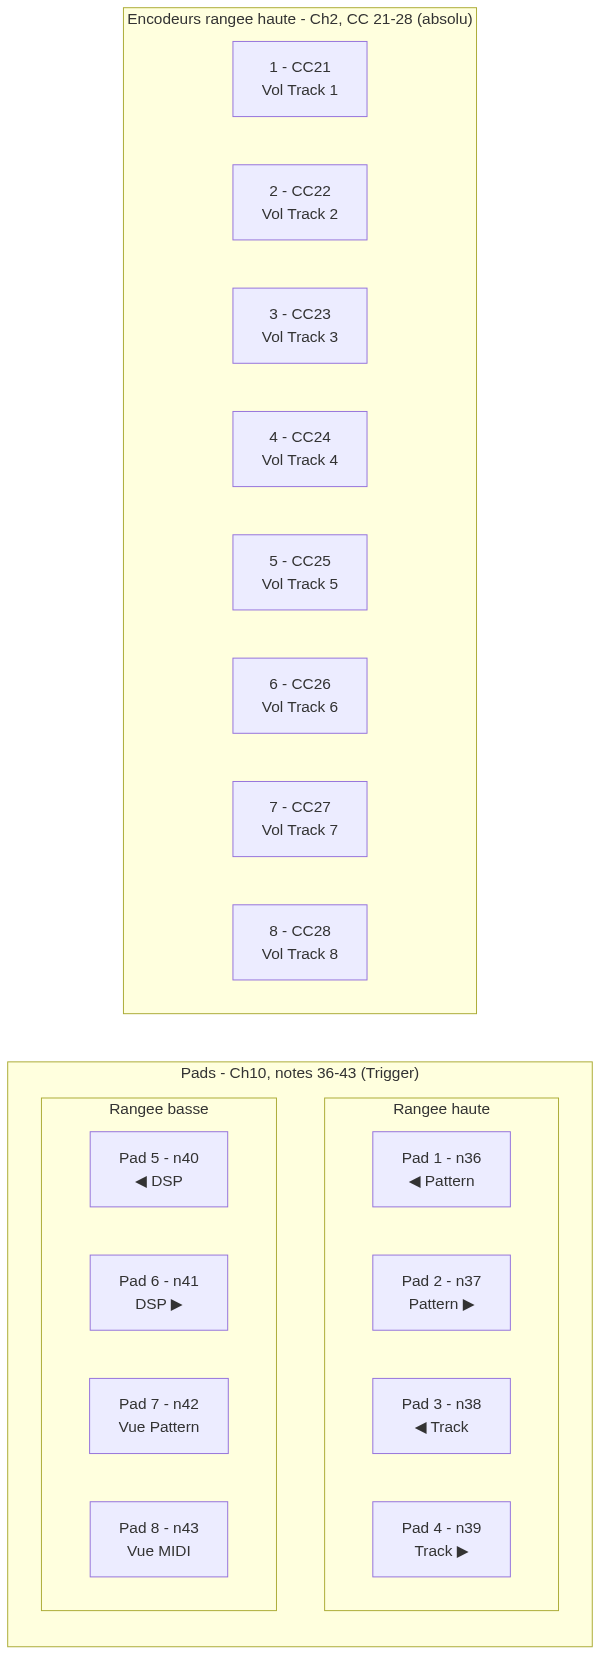
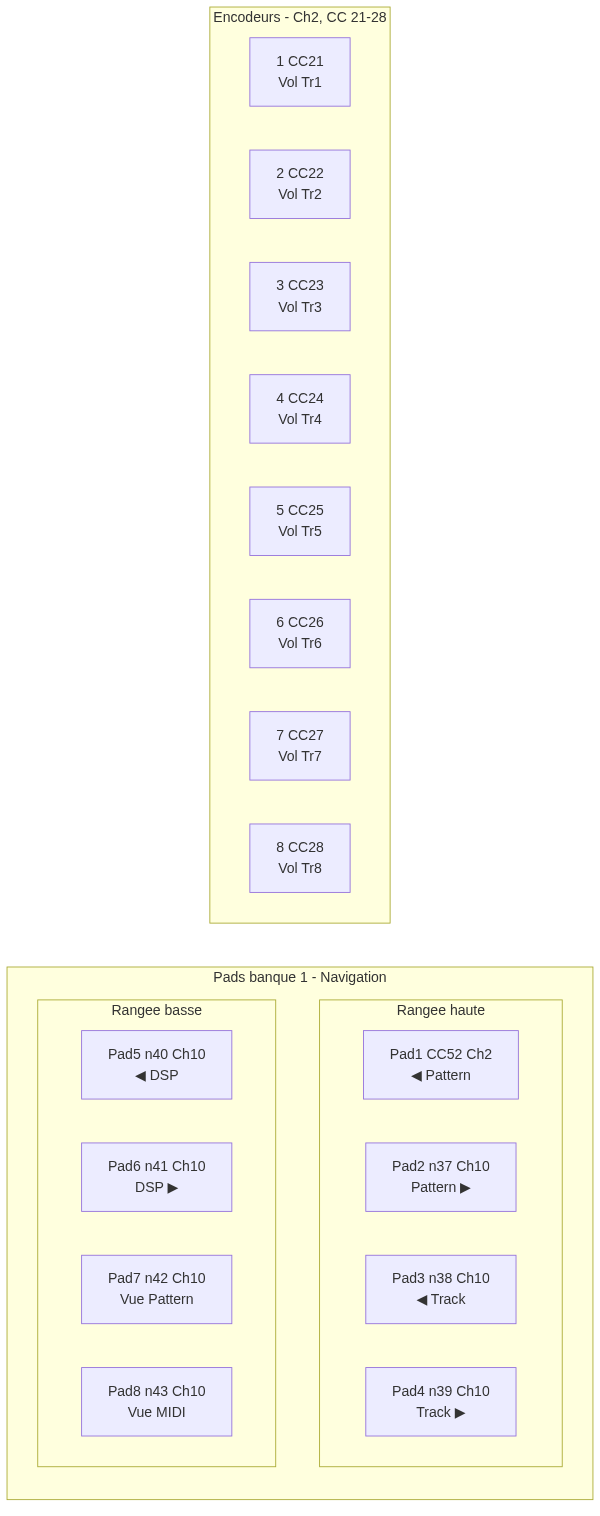
MiniLab: final collision-free mapping (nav + volume), drop bank-2 mutes
The user's MCC preset makes bank-2 pads emit the same CCs (23-28 ch2)
as the volume encoders — unresolvable in Renoise. Ship the validated
collision-free set: 8 volume encoders + 8 bank-1 navigation pads
(captured values, validator: 0 collisions). Bank-2 mutes documented as
excluded with the exact MCC reassignment to re-enable them. Layout PNG
and README updated to match.

https://claude.ai/code/session_01J2FWcPsegxi4dkYwYKcBVL

diff --git a/controllers/minilab-mkii/README.md b/controllers/minilab-mkii/README.md
@@ -73,21 +73,21 @@ flowchart TB
     E7["7 - CC27<br/>Vol Track 7"]
     E8["8 - CC28<br/>Vol Track 8"]
   end
-  subgraph PADS["Pads - Ch10, notes 36-43 (Trigger)"]
+  subgraph PADS["Pads banque 1 - Navigation"]
     direction TB
     subgraph PR1["Rangee haute"]
       direction LR
-      P1["Pad 1 - n36<br/>&#9664; Pattern"]
-      P2["Pad 2 - n37<br/>Pattern &#9654;"]
-      P3["Pad 3 - n38<br/>&#9664; Track"]
-      P4["Pad 4 - n39<br/>Track &#9654;"]
+      P1["Pad1 CC52 Ch2<br/>&#9664; Pattern"]
+      P2["Pad2 n37 Ch10<br/>Pattern &#9654;"]
+      P3["Pad3 n38 Ch10<br/>&#9664; Track"]
+      P4["Pad4 n39 Ch10<br/>Track &#9654;"]
     end
     subgraph PR2["Rangee basse"]
       direction LR
-      P5["Pad 5 - n40<br/>&#9664; DSP"]
-      P6["Pad 6 - n41<br/>DSP &#9654;"]
-      P7["Pad 7 - n42<br/>Vue Pattern"]
-      P8["Pad 8 - n43<br/>Vue MIDI"]
+      P5["Pad5 n40 Ch10<br/>&#9664; DSP"]
+      P6["Pad6 n41 Ch10<br/>DSP &#9654;"]
+      P7["Pad7 n42 Ch10<br/>Vue Pattern"]
+      P8["Pad8 n43 Ch10<br/>Vue MIDI"]
     end
   end
   ENC ~~~ PADS
@@ -108,18 +108,33 @@ flowchart TB
 | 7 | 27 | Volume Track 7 |
 | 8 | 28 | Volume Track 8 |
 
-### Pads — MIDI canal 10, Note (Trigger)
+### Pads banque 1 — Navigation (valeurs capturées sur le MiniLab)
 
-| Pad | Note | Fonction Renoise | Action interne |
-|---|---|---|---|
-| 1 | 36 | ◀ Pattern précédent | `Navigation:Sequencer:Select Previous Sequence Pos` |
-| 2 | 37 | Pattern suivant ▶ | `Navigation:Sequencer:Select Next Sequence Pos` |
-| 3 | 38 | ◀ Track précédente | `Navigation:Tracks:Select Previous Track` |
-| 4 | 39 | Track suivante ▶ | `Navigation:Tracks:Select Next Track` |
-| 5 | 40 | ◀ DSP précédent | `Navigation:Track DSPs:Select Previous Track DSP` |
-| 6 | 41 | DSP suivant ▶ | `Navigation:Track DSPs:Select Next Track DSP` |
-| 7 | 42 | Vue éditeur de pattern | `GUI:Middle Frame:Show Pattern Editor` |
-| 8 | 43 | Vue éditeur MIDI | `GUI:Middle Frame:Show Instrument Midi Editor` |
+| Pad | Envoie | Fonction Renoise |
+|---|---|---|
+| 1 | CC 52 · Ch2 | ◀ Pattern précédent (`Navigation:Sequencer:Select Previous Sequence Pos`) |
+| 2 | Note 37 · Ch10 | Pattern suivant ▶ (`…Select Next Sequence Pos`) |
+| 3 | Note 38 · Ch10 | ◀ Track précédente (`Navigation:Tracks:Select Previous Track`) |
+| 4 | Note 39 · Ch10 | Track suivante ▶ (`…Select Next Track`) |
+| 5 | Note 40 · Ch10 | ◀ DSP précédent (`Navigation:Track DSPs:Select Previous Track DSP`) |
+| 6 | Note 41 · Ch10 | DSP suivant ▶ (`…Select Next Track DSP`) |
+| 7 | Note 42 · Ch10 | Vue éditeur de pattern (`GUI:Middle Frame:Show Pattern Editor`) |
+| 8 | Note 43 · Ch10 | Vue éditeur MIDI (`GUI:Middle Frame:Show Instrument Midi Editor`) |
+
+> Pad 1 envoie du CC (et non une note) sur ce preset — sans importance,
+> Renoise le mappe pareil. Les valeurs ci-dessus sont **celles réellement
+> émises par ton MiniLab**, capturées par `build_xrnm.py` (zéro saisie
+> manuelle, fichier revalidé : 0 collision).
+
+### Pads banque 2 (Mute) — NON inclus
+
+Sur ce preset, les pads 9-16 envoient les **mêmes CC que les knobs de
+volume** (CC 23-28, Ch2) → conflit irrésolvable côté Renoise. Ils sont
+donc **volontairement exclus** du fichier. Pour les ajouter (Mute/Solo,
+transport…), il faut d'abord leur donner des numéros distincts **dans
+MIDI Control Center** : sélectionne les pads de la banque 9-16, mets-les
+en **Note, Channel 10, notes 44-51, mode Gate**, *Store To*, puis
+relance `build_xrnm.py`.
 
 ## Notes importantes
 
@@ -127,9 +142,8 @@ flowchart TB
   `1` s'affiche **Ch2** dans Renoise, `9` s'affiche **Ch10**. Les
   encodeurs sont sur le canal 2, les pads sur le canal 10 (valeurs
   relevées sur tes propres captures, donc cohérentes avec ton MiniLab).
-- **Si un pad ne réagit pas** : sa note réelle (preset MCC) diffère de
-  36-43. En *Learn Mode* dans la fenêtre MIDI Mapping, tape le pad : le
-  numéro reçu s'affiche → corrige le `<CCNumberOrNote>` correspondant.
+- **Si un pad ne réagit pas** : relance `build_xrnm.py` (il recapture
+  les valeurs réelles et revalide) plutôt que d'éditer à la main.
 - **« Pattern précédent/suivant »** = avancer/reculer dans la **séquence
   du morceau** (l'arrangement). Pour changer *quel* pattern occupe le
   slot courant, ce sont d'autres actions
@@ -142,8 +156,9 @@ flowchart TB
 - 2ᵉ banque d'encodeurs → volume tracks 9-16, ou paramètres du **DSP
   sélectionné** (clic droit sur un paramètre d'effet → *Set MIDI
   Mapping* → tourne le knob).
-- 2ᵉ banque de pads → Mute/Solo des tracks, transport (Play/Stop),
-  Loop, etc.
-
-Donne les numéros CC/notes de ta 2ᵉ banque (preset MCC) et on étend le
-fichier.
+- 2ᵉ banque de pads → Mute/Solo, transport, Loop : possible une fois
+  les pads 9-16 réassignés dans MCC (voir « Pads banque 2 » ci-dessus),
+  puis `build_xrnm.py`.
+- Paramètres du **DSP sélectionné** au knob : nécessite les libellés
+  d'action de `Navigation ▸ Track DSPs` (capture d'écran du nœud déplié
+  dans la fenêtre MIDI Mapping Renoise).